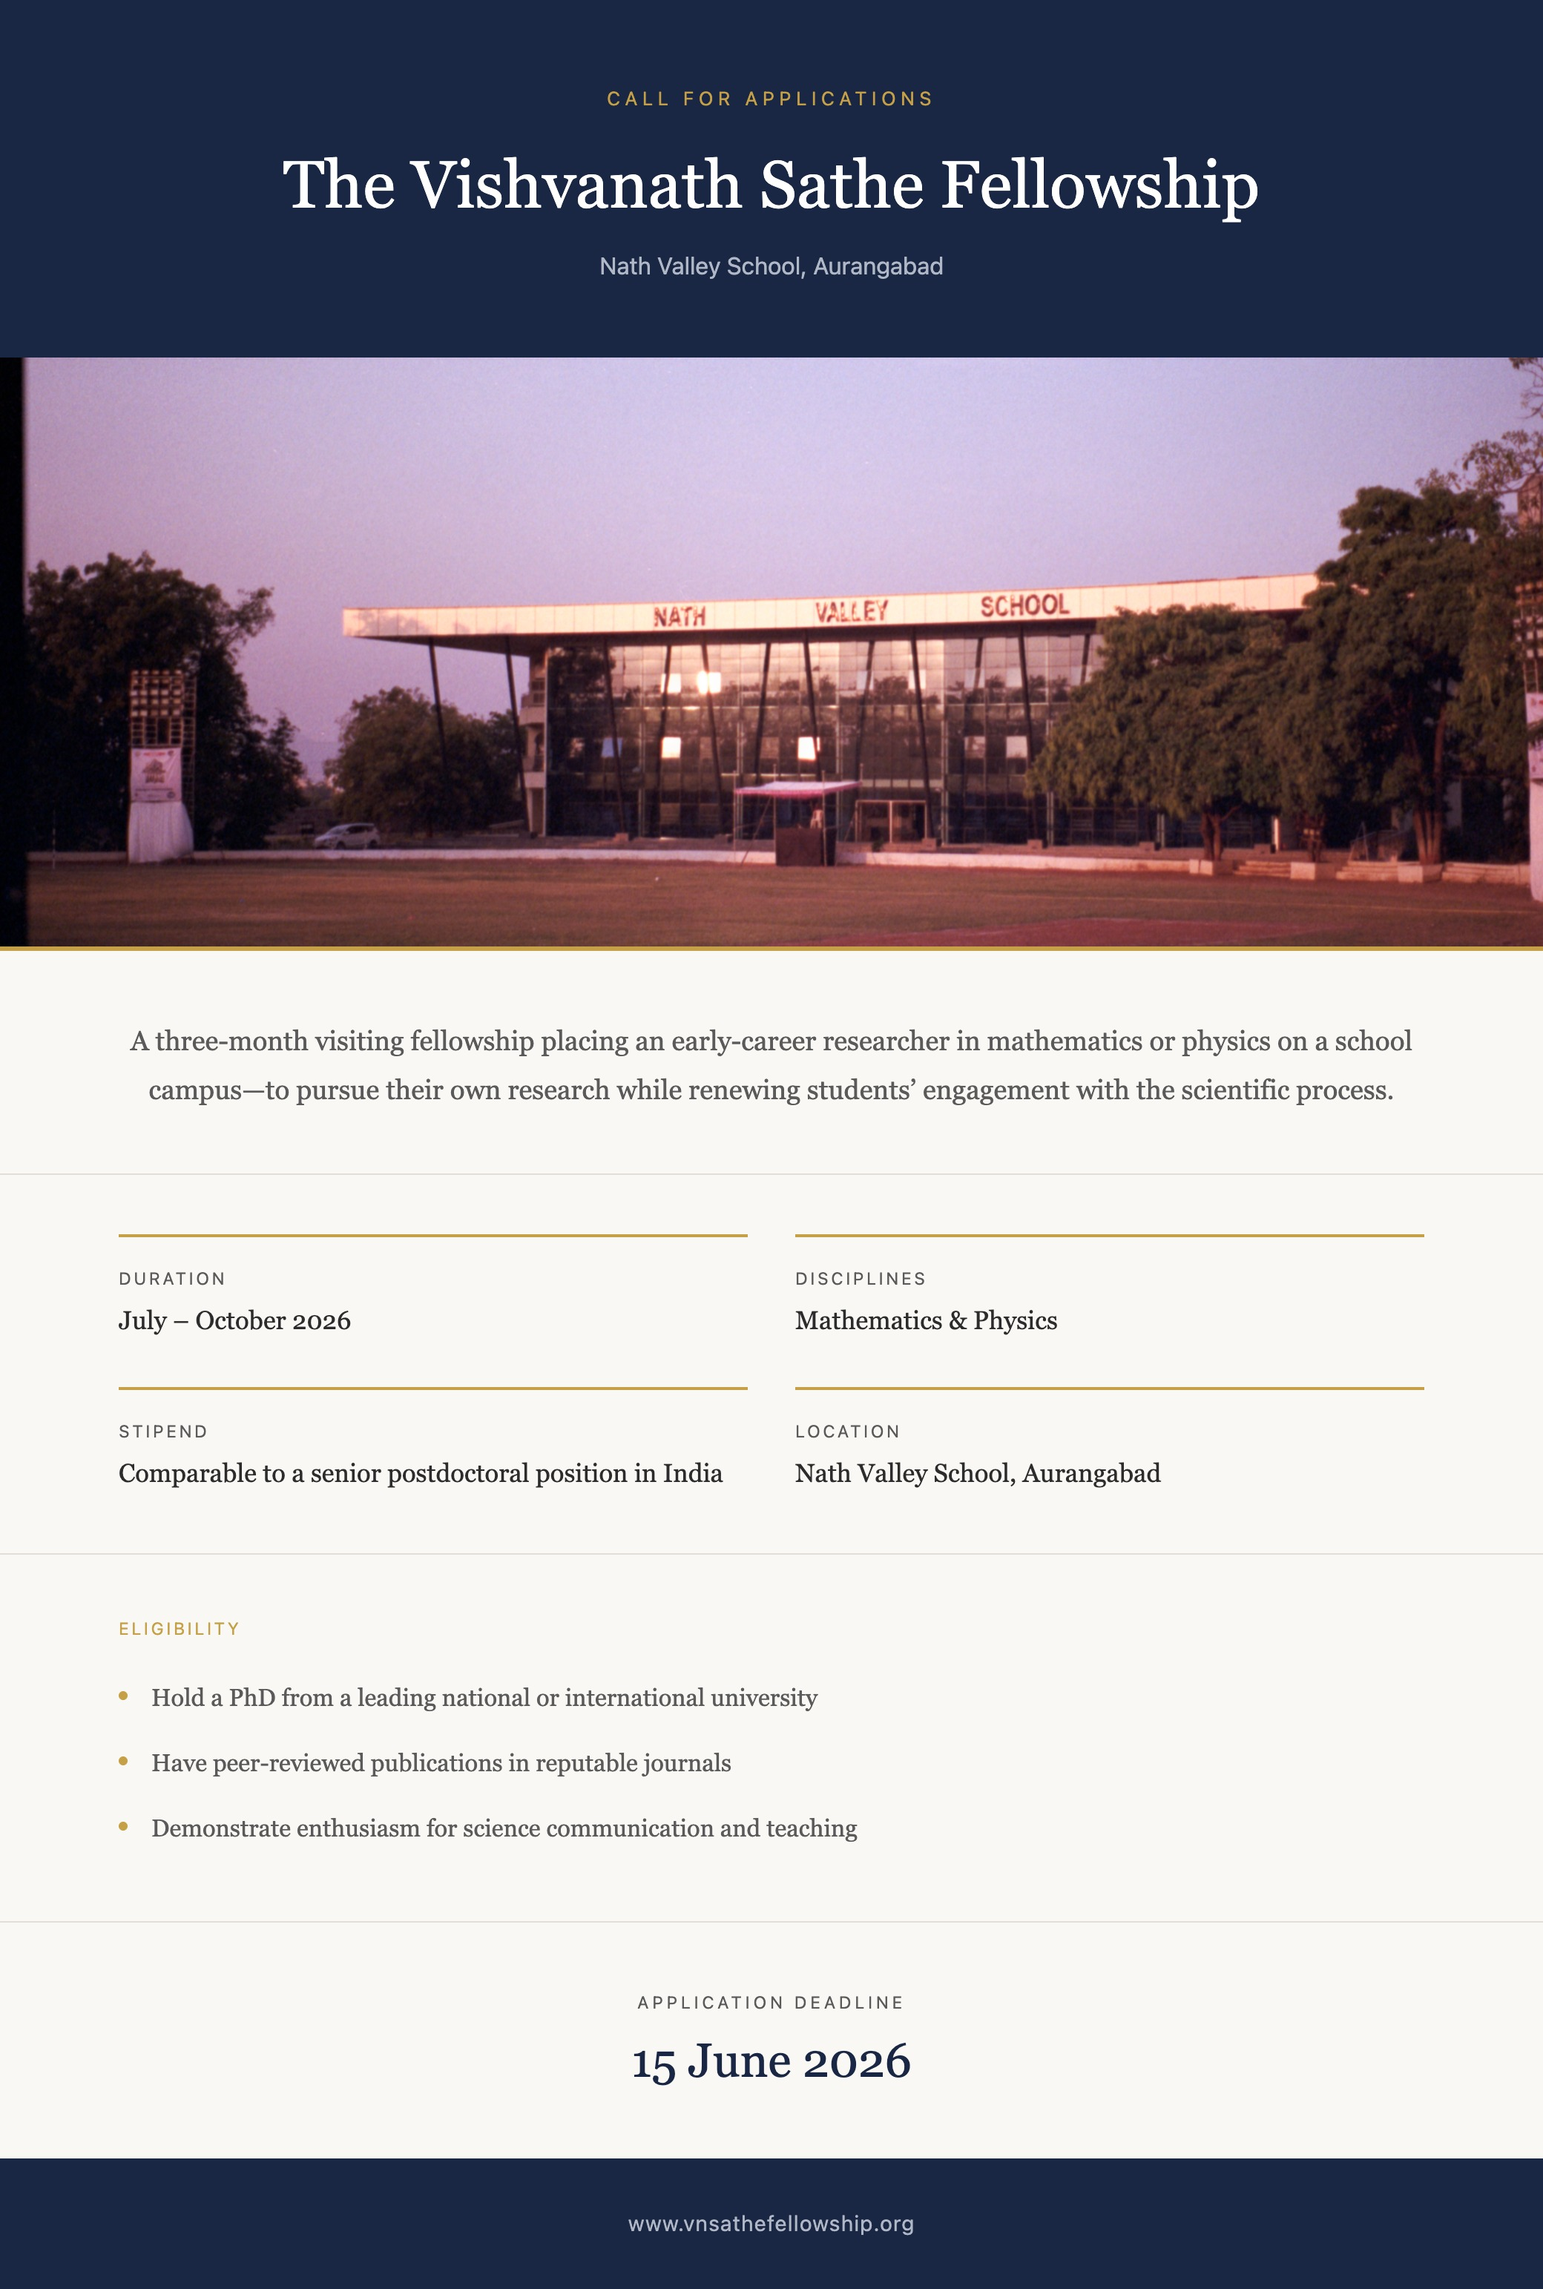
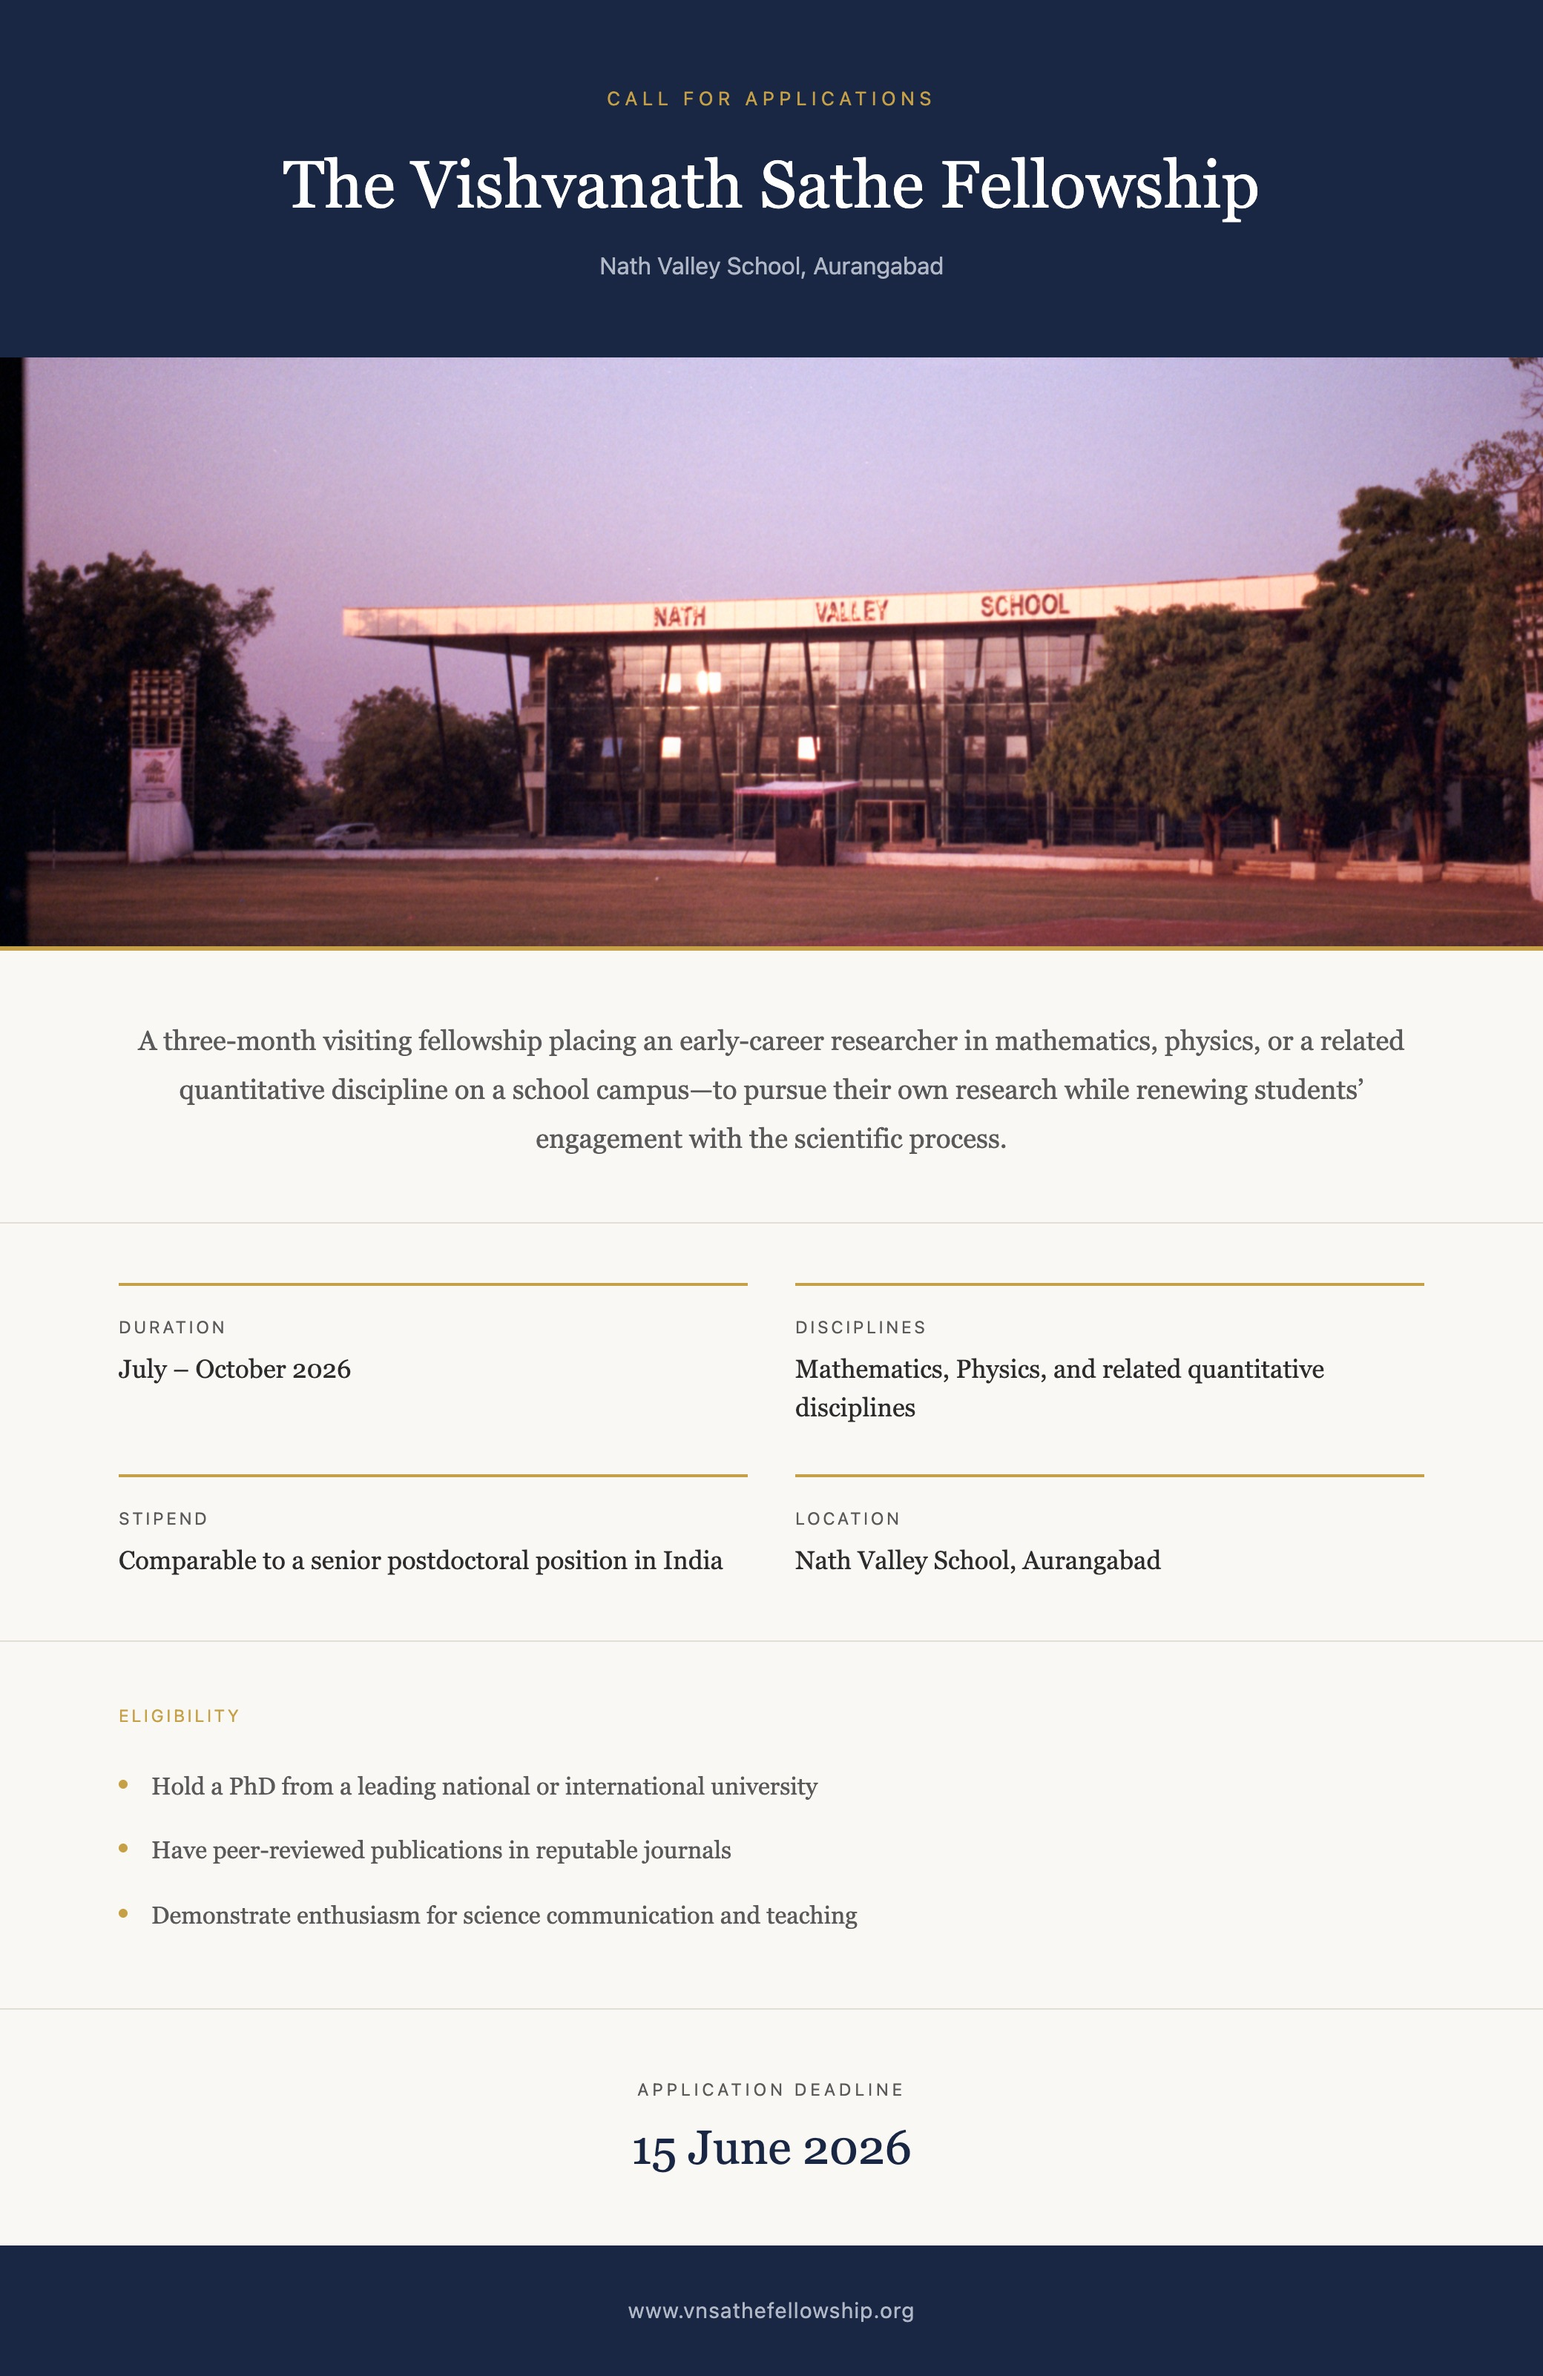
broaden disciplines to include related quantitative fields

diff --git a/index.html b/index.html
@@ -280,7 +280,7 @@
 
     <section>
       <h2>About the Fellowship</h2>
-      <p>The Vishvanath Sathe Fellowship is a quarter-long visiting fellowship that places an early-career researcher in mathematics or physics on the Nath Valley School campus. It is designed to help high-school students and teachers renew their engagement with the scientific process and deepen the sense of wonder and curiosity that drives rigorous scientific work&mdash;by bringing accomplished researchers into the day-to-day life of a school, not just a university.</p>
+      <p>The Vishvanath Sathe Fellowship is a quarter-long visiting fellowship that places an early-career researcher in mathematics, physics, or a related quantitative discipline on the Nath Valley School campus. It is designed to help high-school students and teachers renew their engagement with the scientific process and deepen the sense of wonder and curiosity that drives rigorous scientific work&mdash;by bringing accomplished researchers into the day-to-day life of a school, not just a university.</p>
       <p>Each cycle brings a researcher to campus for three months. The fellow pursues their own research while engaging students and teachers through seminars, mentoring, collaborative projects, and conversations, devoting approximately four hours per week to these interactions.</p>
       <p>The fellowship is named for Vishvanath Sathe, an early recruit to the Bhabha Atomic Research Centre (BARC) by Dr Homi Bhabha, remembered for his good-humoured scientific rationalism and lifelong curiosity about the universe.</p>
 
@@ -291,7 +291,7 @@
         </div>
         <div class="detail-item">
           <div class="detail-label">Disciplines</div>
-          <div class="detail-value">Mathematics &amp; Physics</div>
+          <div class="detail-value">Mathematics, Physics, and related quantitative disciplines</div>
         </div>
         <div class="detail-item">
           <div class="detail-label">Stipend</div>

diff --git a/apply.html b/apply.html
@@ -293,7 +293,7 @@
     </div>
 
     <div class="description">
-      <p>A three-month visiting fellowship placing an early-career researcher in mathematics or physics on a school campus&mdash;to pursue their own research while renewing students&rsquo; engagement with the scientific process.</p>
+      <p>A three-month visiting fellowship placing an early-career researcher in mathematics, physics, or a related quantitative discipline on a school campus&mdash;to pursue their own research while renewing students&rsquo; engagement with the scientific process.</p>
     </div>
 
     <div class="details-grid">
@@ -303,7 +303,7 @@
       </div>
       <div class="detail-item">
         <div class="detail-label">Disciplines</div>
-        <div class="detail-value">Mathematics &amp; Physics</div>
+        <div class="detail-value">Mathematics, Physics, and related quantitative disciplines</div>
       </div>
       <div class="detail-item">
         <div class="detail-label">Stipend</div>
